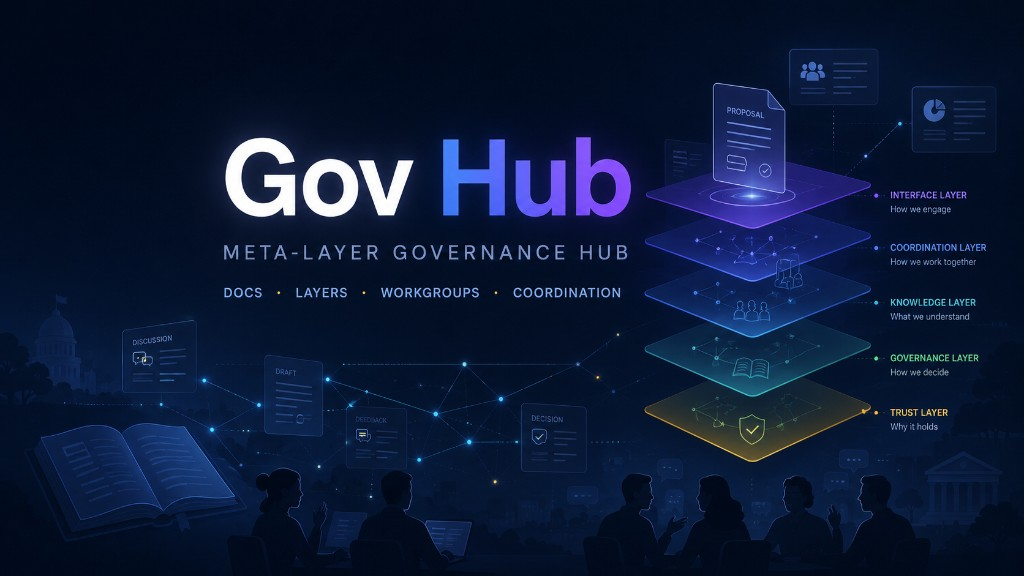
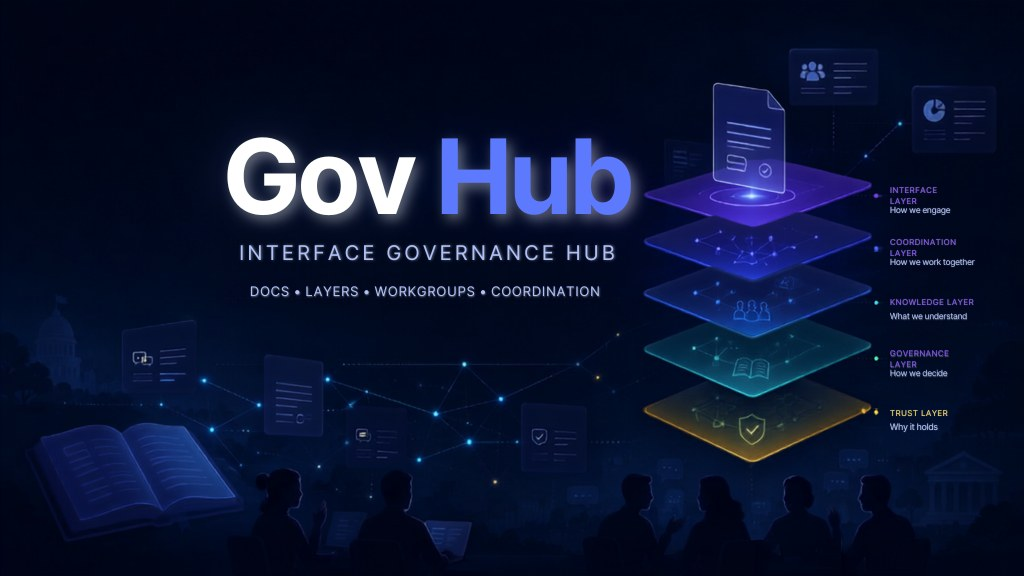
fix(home): remove Meta-Layer/MLTF/MLGH from front page; new hero image
- Title: MLGH -> Gov Hub
- Hero image alt: "Meta-Layer Governance Hub" -> "Interface Governance Hub"
- Tagline: "Welcome to the Meta-Layer Governance Hub" -> "Welcome to Gov Hub — Interface Governance Hub"
- Layers card: drop "MLTF"
- People card: "Meta-Layer participants" -> "Gov Hub participants"
- Replace home hero image with new Interface Governance Hub art

diff --git a/services/rendering.py b/services/rendering.py
@@ -320,7 +320,7 @@ def build_home_hub_cards_html():
     if r.get('layers', True):
         cards.append(_home_hub_card(
             '/layers/', 'fa-layer-group', 'Layers',
-            'Browse MLTF layers, workgroups, and living layer maps.',
+            'Browse layers, workgroups, and living layer maps.',
             'View Layers', primary=True,
         ))
     if r.get('workgroups', True):
@@ -343,7 +343,7 @@ def build_home_hub_cards_html():
         ))
     cards.append(_home_hub_card(
         '/person/', 'fa-user-friends', 'People',
-        'Directory of Meta-Layer participants and contributors.',
+        'Directory of Gov Hub participants and contributors.',
         'View People',
     ))
     if r.get('badges', True):
@@ -375,14 +375,14 @@ def build_home_hero_subtitle():
         if r.get(key, True):
             labels.append(label)
     if not labels:
-        return 'Welcome to the Meta-Layer Governance Hub — coordination in one place.'
+        return 'Welcome to Gov Hub — Interface Governance Hub. Coordination in one place.'
     if len(labels) == 1:
         joined = labels[0]
     elif len(labels) == 2:
         joined = f'{labels[0]} and {labels[1]}'
     else:
         joined = ', '.join(labels[:-1]) + f', and {labels[-1]}'
-    return f'Welcome to the Meta-Layer Governance Hub — {joined}, and coordination in one place.'
+    return f'Welcome to Gov Hub — Interface Governance Hub. {joined.capitalize()}, and coordination in one place.'
 
 
 def generate_civic_mason_nav_li():

diff --git a/routes/pages.py b/routes/pages.py
@@ -74,7 +74,7 @@ def home():
     activity_html = build_home_activity_rotator_html(get_platform_activity_items(7))
 
     return _format_base_template(
-        title="MLGH",
+        title="Gov Hub",
         theme=current_theme,
         user_menu=user_menu,
         content=f"""
@@ -83,7 +83,7 @@ def home():
             <div class="gh-home-hero-banner">
                 <img
                     src="/static/images/gov-hub-home-hero.png"
-                    alt="Gov Hub — Meta-Layer Governance Hub"
+                    alt="Gov Hub — Interface Governance Hub"
                     width="1600"
                     height="900"
                     loading="eager"
